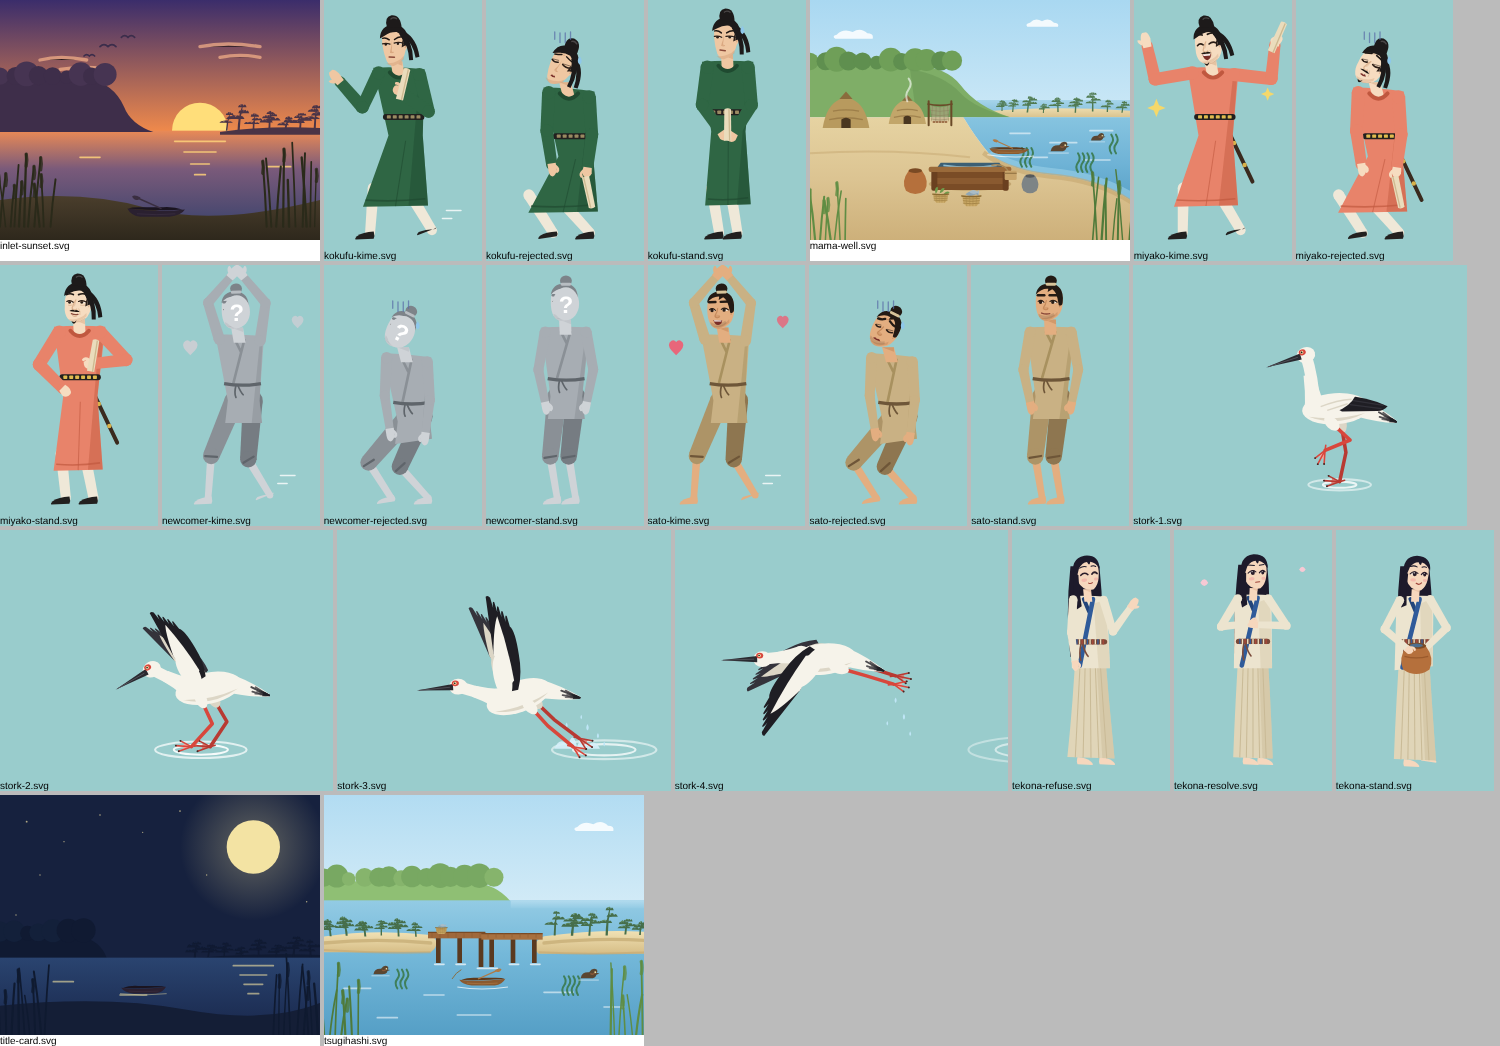
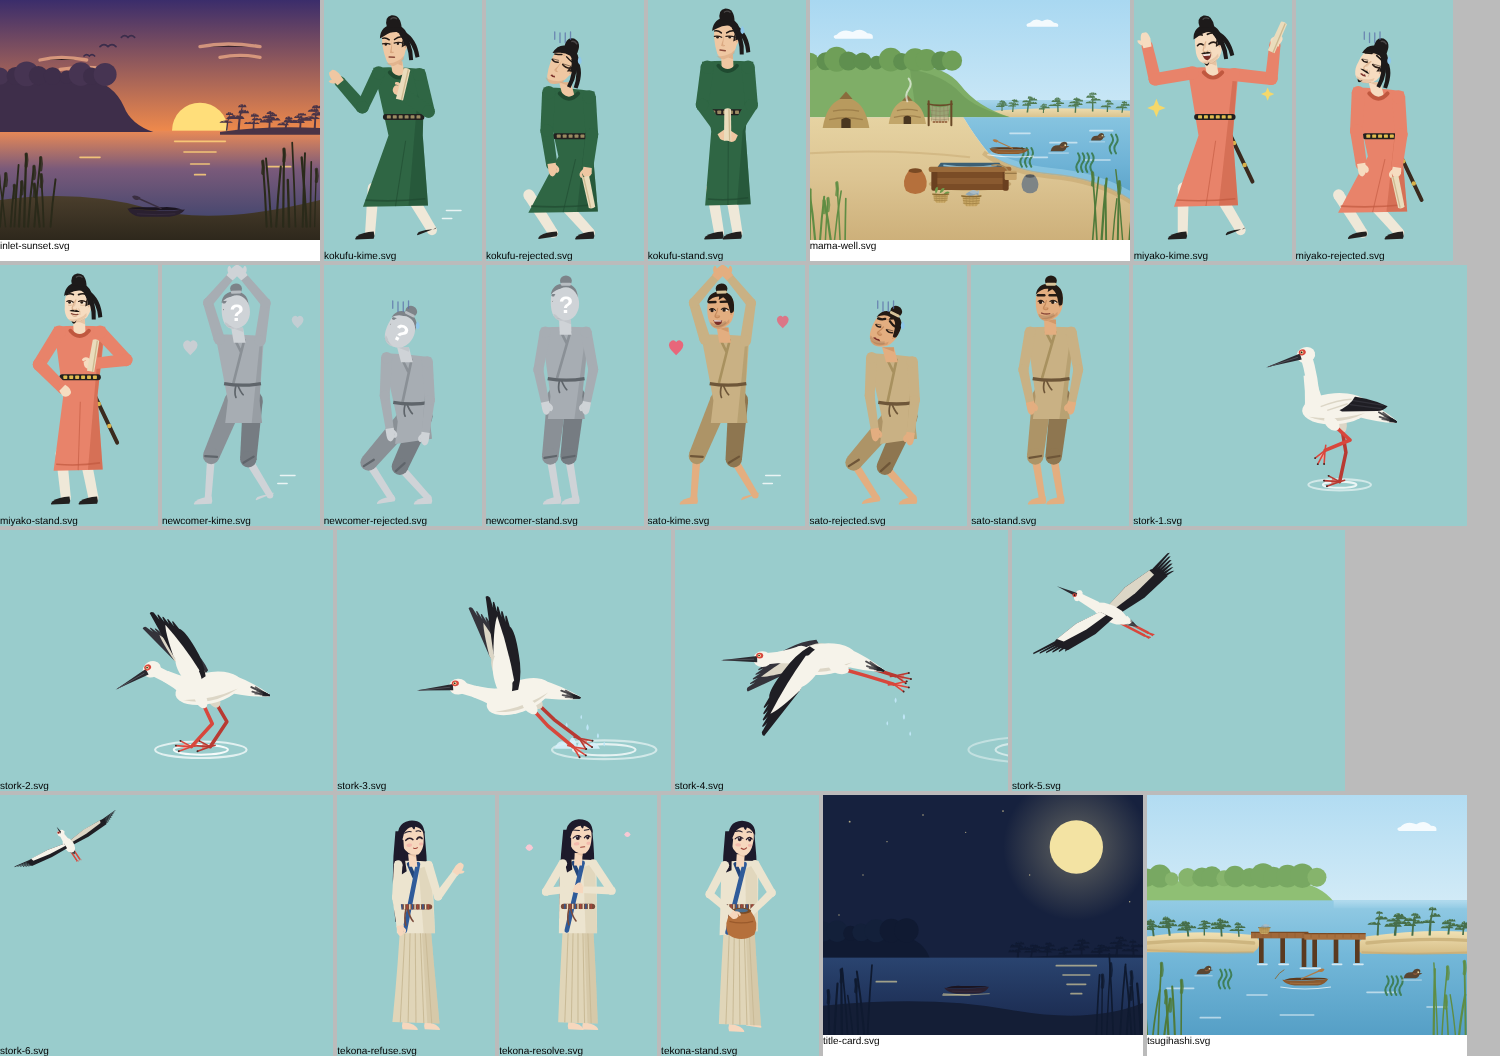
feat(tekona): コウノトリが翼を広げて画面の奥へ旋回する5・6枚目を加える
- 5枚目：羽ばたきのあと、風をとらえた翼を大きく広げ、少し傾いて奥へ向きを変えはじめる
- 6枚目：さらに傾いて画面の奥へゆっくり旋回し、小さく遠ざかる
- 翼を広げた姿を立体で組み、傾き・向き・見上げる角度を変えて平面に写す（stork.cjs の soar）
版4の生成スクリプト・素材・一覧画像・版の記録と stories/tekona/assets を更新。

Claude-Session: https://claude.ai/code/session_011SEzgWsvxN8M8X3xfVu3am

diff --git a/resources/tekona-workshop/art-versions/README.md b/resources/tekona-workshop/art-versions/README.md
@@ -53,18 +53,21 @@
   * 砂州の松を、1本ずつ高さ・幹の曲がり・海側への傾き・葉の段の数が違う松にした（版2は同じ形の木を並べていた）。
   * 小道具：岸に引き上げた丸木舟と櫂、竿に干した網と土錘、井戸のそばの草で編んだかご（魚・菜）、
     継橋のたもとにつないだ丸木舟と橋の上のかご、夕日と月夜の入江の丸木舟（シルエット）。人物と重ならない位置に置いています。
-* **コウノトリの4枚絵**（`stork-1`〜`stork-4`、320×240）：水辺から飛び立つアニメーション。大型の鳥なので真上には跳ばず、次の順に動きます。
+* **コウノトリの6枚絵**（`stork-1`〜`stork-6`、320×240）：水辺から飛び立つアニメーション。大型の鳥なので真上には跳ばず、次の順に動きます。
   1. 飛ぶ前の姿勢：あごを少し引き、翼を体に引き寄せてたたみ、重心を高くして立つ。手前の足を軽く上げ、奥の足に力を込めてまっすぐ立ち、遠く前方を見る。
   2. 身をかがめ、翼を半分ひらいて構える。
   3. 斜め前へ身を乗り出し、脚で水を後ろへけり出す（しぶき）。胴体は前に傾き、重心は2枚目よりいったん下がる。翼は打ちおろしの前で高く上げている。
   4. 翼を打ちおろして風をとらえ、前へ進みながら上がる。首を水平にのばして頭を重心（胴体の中心）と同じ高さに置き、脚は後ろへのばす。翼は首にかからないよう肩から下へ打ちおろす。
+  5. 羽ばたきのあと、風をとらえた翼を大きく広げ（初列風切は指のように分かれる）、少し傾いて画面の奥へ向きを変えはじめる。
+  6. さらに傾いて画面の奥へゆっくり旋回し、小さく遠ざかる。
 
-  4枚とも水面の高さ（y=170）をそろえてあります。鳥は2枚目から1枚ごとに前（画面の左）へ進み、飛び立った場所の波紋は、鳥から見て後ろ（右）へ遠ざかります。
-  波紋の中心は、1・2枚目は足もと、3枚目は後ろへけり出した足先よりさらに右、4枚目は画像の右へ見切れる位置です。
-  回転の中心は4枚共通で、水面の上の点（画像の左上から198, 210）です。
+  6枚とも水面の高さ（y=170）をそろえてあります。鳥は2枚目から1枚ごとに前（画面の左）へ進み、飛び立った場所の波紋は、鳥から見て後ろ（右）へ遠ざかります。
+  波紋の中心は、1・2枚目は足もと、3枚目は後ろへけり出した足先よりさらに右、4枚目は画像の右へ見切れる位置で、5・6枚目には映りません。
+  回転の中心は6枚共通で、水面の上の点（画像の左上から198, 210）です。
 
   白い体・黒い風切羽・黒いくちばし、目のまわりと脚は赤。目は頭の中ほどより少し上。尾羽は後ろへ行くほど細くなる三角で、白い毛の筆に墨を不均一につけたように先へ向かって黒い筋が濃くなり、先を下へ向ける。
   肩から上腕を白い斜めの楕円で描いて翼を胴体の前寄りから生やし、脚の付け根（すねの上）は羽毛の白い斜めの楕円でおおう。足は前の3本の指と付け根の水かき、後ろの短い指。
+  5・6枚目は、翼を広げた姿を立体で組み、傾き・向き・見上げる角度を変えて平面に写して描いています（`generator/stork.cjs`の`soar`）。
   台本と`project-assets-dsl4.yml`にはまだ登録していません。
 
 ライセンスは`stories/tekona/assets/`と同じMPL-2.0です（[`stories/tekona/LICENSES.md`](../../../stories/tekona/LICENSES.md)）。
